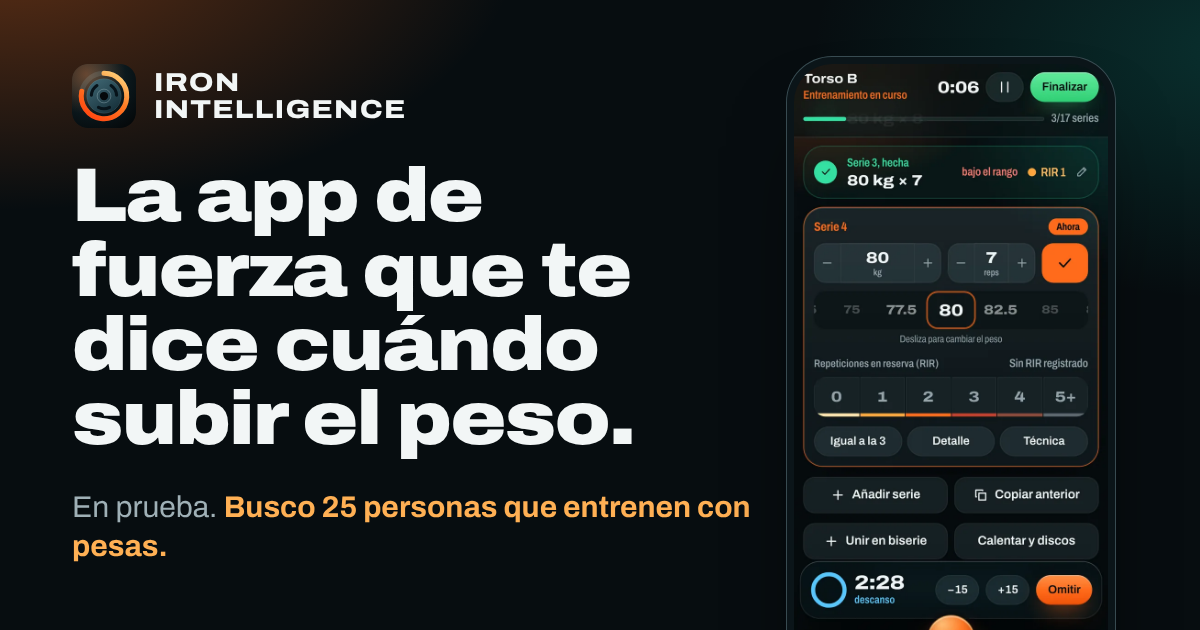
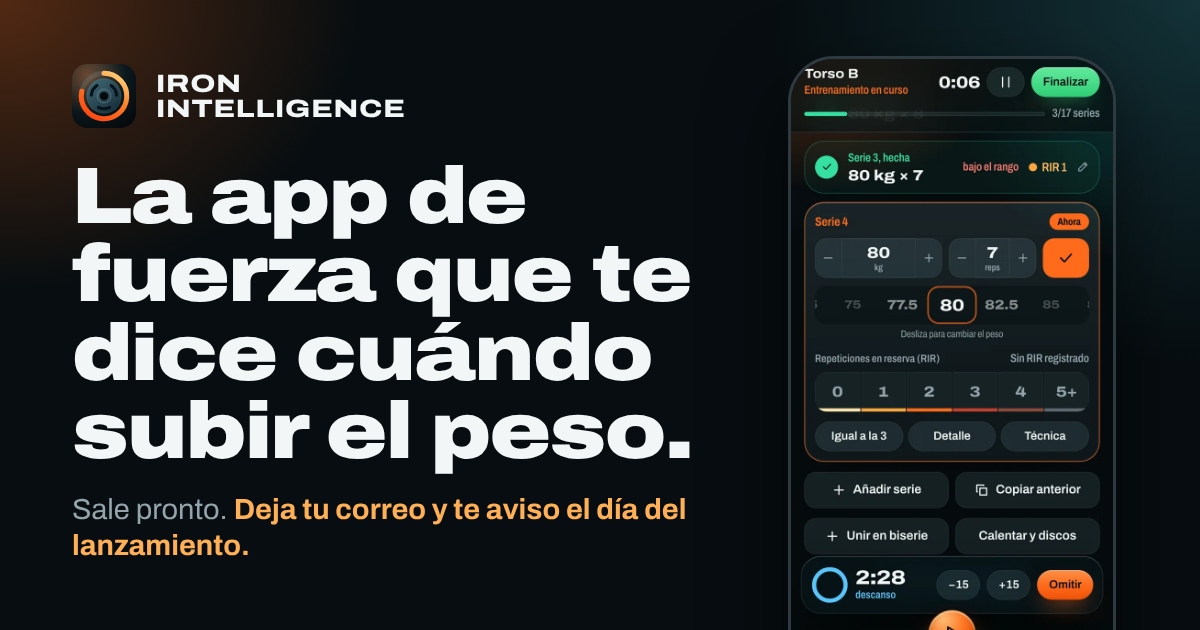
Página: aviso de lanzamiento en vez de búsqueda de testers
- Sección nueva «Te aviso el día que salga»: formulario de correo (y tipo de teléfono, opcional) que guarda en la
  lista de aviso, con confirmación y opción de quitar el correo desde la misma página.
- La búsqueda de testers queda oculta; se muestra entrando con ?testers en la dirección.
- Textos, preguntas frecuentes, pie, descripción e imagen para compartir con el nuevo enfoque.
- Base de datos: tabla launch_signups y funciones join_launch_list y leave_launch_list, sin acceso directo a la tabla
  y con tope diario por conexión.
- Política de privacidad: qué se guarda para el aviso y cómo salir de la lista.
- Enlaces a Instagram y TikTok preparados: aparecen al completar los nombres de usuario en REDES.

Claude-Session: https://claude.ai/code/session_01WESPivRb3g9ZrUTQocmSqs

diff --git a/public/web/index.html b/public/web/index.html
@@ -4,7 +4,7 @@
 <meta charset="utf-8">
 <meta name="viewport" content="width=device-width, initial-scale=1, viewport-fit=cover">
 <title>IRON INTELLIGENCE: la app de fuerza que te dice cuándo subir el peso</title>
-<meta name="description" content="Registra tus series en segundos, analiza tu progreso y entra a la próxima sesión sabiendo qué cargar. Está en prueba: se buscan 25 personas que entrenen con pesas.">
+<meta name="description" content="Registra tus series en segundos, analiza tu progreso y entra a la próxima sesión sabiendo qué cargar. Sale pronto: deja tu correo y te aviso el día del lanzamiento.">
 <meta name="theme-color" content="#070d10">
 <link rel="canonical" href="https://ironintelligence.app/">
 <link rel="icon" href="/icon.svg" type="image/svg+xml">
@@ -13,7 +13,7 @@
 <meta property="og:locale" content="es_CL">
 <meta property="og:site_name" content="IRON INTELLIGENCE">
 <meta property="og:title" content="La app de fuerza que te dice cuándo subir el peso">
-<meta property="og:description" content="Está en prueba. Se buscan 25 personas que entrenen con pesas para usarla antes del lanzamiento.">
+<meta property="og:description" content="Sale pronto. Deja tu correo y te aviso el día del lanzamiento.">
 <meta property="og:url" content="https://ironintelligence.app/">
 <meta property="og:image" content="https://ironintelligence.app/web/og.png">
 <meta property="og:image:width" content="1200">
@@ -293,6 +293,15 @@ h3 { font-stretch: 106%; font-weight: 800; font-size: 1.1875rem; line-height: 1.
 .done ol li { counter-increment: paso; display: grid; grid-template-columns: 28px minmax(0, 1fr); gap: 10px; color: var(--mute); }
 .done ol li::before { content: counter(paso); color: var(--amber); font-weight: 800; font-stretch: 118%; }
 
+/* ---------- Aviso de lanzamiento ---------- */
+.aviso-form fieldset { border: 0; padding: 0; min-width: 0; display: grid; gap: 10px; }
+.aviso-form legend { font-weight: 700; font-size: 1rem; padding: 0; margin-bottom: 10px; }
+.aviso-form .btn { width: 100%; }
+.textbtn { justify-self: start; min-height: 44px; padding: 0; border: 0; background: none; color: var(--mute); font: inherit; font-size: .9375rem; text-decoration: underline; text-underline-offset: 4px; cursor: pointer; }
+.textbtn:active { color: var(--chalk); }
+.ok { color: var(--go); font-size: .9375rem; font-weight: 600; }
+.ok:empty { display: none; }
+
 /* ---------- Preguntas ---------- */
 .faq { display: grid; gap: 44px; }
 @media (min-width: 900px) { .faq { grid-template-columns: minmax(0, 5fr) minmax(0, 7fr); gap: 72px; } }
@@ -357,8 +366,8 @@ h3 { font-stretch: 106%; font-weight: 800; font-size: 1.1875rem; line-height: 1.
       <a class="link" href="#recorrido">Recorrido</a>
       <a class="link" href="#demo">Pruébala</a>
       <a class="link" href="#funciones">Funciones</a>
-      <a class="link" href="#prueba">La prueba</a>
-      <a class="btn btn-fire btn-small" href="#inscripcion">Quiero probarla</a>
+      <a class="link" href="#prueba" data-testers hidden>La prueba</a>
+      <a class="btn btn-fire btn-small" href="#aviso" aria-label="Avísame cuando salga">Avísame</a>
     </nav>
   </div>
 </header>
@@ -369,9 +378,9 @@ h3 { font-stretch: 106%; font-weight: 800; font-size: 1.1875rem; line-height: 1.
   <div class="wrap">
     <div class="hero-copy">
       <h1 class="display">La app de fuerza que te dice cuándo subir el peso.</h1>
-      <p class="lead">Registra cada serie en segundos, mira cómo progresas y entra a la próxima sesión sabiendo qué cargar. Está en prueba y busco 25 personas que entrenen con pesas.</p>
+      <p class="lead">Registra cada serie en segundos, mira cómo progresas y entra a la próxima sesión sabiendo qué cargar. Sale pronto: deja tu correo y te aviso ese día.</p>
       <div class="actions">
-        <a class="btn btn-fire" href="#inscripcion">Quiero probarla</a>
+        <a class="btn btn-fire" href="#aviso">Avísame cuando salga</a>
         <a class="btn btn-ghost" href="#demo">Tocar la demostración</a>
       </div>
       <div class="seg" role="tablist" aria-label="Pantalla que muestra el teléfono" id="hero-tabs">
@@ -545,7 +554,48 @@ h3 { font-stretch: 106%; font-weight: 800; font-size: 1.1875rem; line-height: 1.
   </div>
 </section>
 
-<section class="section" id="prueba">
+<section class="section" id="aviso">
+  <div class="wrap join">
+    <div class="section-head rv">
+      <h2 class="display">Te aviso el día que salga.</h2>
+      <p class="lead">Deja tu correo y te escribo una sola vez: cuando la app esté lista para descargar.</p>
+      <p class="note">Uso tu correo solo para ese aviso. No lo comparto, y lo quitas de la lista cuando quieras desde esta misma página. Más detalle en la <a href="/privacidad.html">política de privacidad</a>.</p>
+      <p class="note" data-redes hidden>Mientras tanto, la app se muestra en <span></span>.</p>
+    </div>
+
+    <div class="rv">
+      <form class="form aviso-form" id="aviso-form" novalidate>
+        <div class="field">
+          <label for="a-correo">Tu correo</label>
+          <input class="input" id="a-correo" name="correo" type="email" inputmode="email" autocomplete="email" maxlength="120" placeholder="nombre@gmail.com" aria-describedby="a-e-correo">
+          <p class="error" id="a-e-correo" role="alert"></p>
+        </div>
+        <fieldset>
+          <legend>¿Qué teléfono usas? <span class="hint">(opcional)</span></legend>
+          <div class="pills">
+            <label class="pill"><input type="radio" name="telefono" value="android"><span>Android</span></label>
+            <label class="pill"><input type="radio" name="telefono" value="iphone"><span>iPhone</span></label>
+          </div>
+        </fieldset>
+        <div class="trap" aria-hidden="true"><label>No completar <input type="text" name="sitio" tabindex="-1" autocomplete="off"></label></div>
+        <p class="error" id="a-e-envio" role="alert"></p>
+        <p class="ok" id="a-ok" role="status"></p>
+        <button class="btn btn-fire" type="submit" id="a-enviar">Avísame cuando salga</button>
+        <button class="textbtn" type="button" id="a-quitar">Quitar mi correo de la lista</button>
+      </form>
+
+      <div class="form done" id="aviso-listo" hidden tabindex="-1">
+        <h3 class="display" style="font-size: 1.75rem">Listo. Te aviso cuando salga.</h3>
+        <p class="lead">Te escribiré una vez, al correo que dejaste.</p>
+        <p class="note" data-redes hidden>Mientras tanto, la app se muestra en <span></span>.</p>
+        <button class="btn btn-ghost" type="button" id="a-otro">Anotar otro correo</button>
+      </div>
+    </div>
+  </div>
+</section>
+
+<!-- Búsqueda de testers: queda oculta. Se muestra entrando con ?testers en la dirección (ironintelligence.app/?testers). -->
+<section class="section" id="prueba" data-testers hidden>
   <div class="wrap trial">
     <div class="rv">
       <div class="section-head">
@@ -569,7 +619,7 @@ h3 { font-stretch: 106%; font-weight: 800; font-size: 1.1875rem; line-height: 1.
   </div>
 </section>
 
-<section class="section" id="inscripcion">
+<section class="section" id="inscripcion" data-testers hidden>
   <div class="wrap join">
     <div class="section-head rv">
       <h2 class="display">Inscríbete en la prueba.</h2>
@@ -667,20 +717,20 @@ h3 { font-stretch: 106%; font-weight: 800; font-size: 1.1875rem; line-height: 1.
 <section class="section" id="preguntas">
   <div class="wrap faq">
     <div class="section-head rv">
-      <h2 class="display">Preguntas antes de inscribirte.</h2>
+      <h2 class="display">Preguntas frecuentes.</h2>
     </div>
     <div class="rv">
       <details class="qa">
         <summary>¿Cuánto cuesta?<svg width="22" height="22" viewBox="0 0 24 24" fill="none" stroke="currentColor" stroke-width="2.2" stroke-linecap="round" aria-hidden="true"><path d="M12 5v14"/><path d="M5 12h14"/></svg></summary>
-        <p>Probarla no cuesta nada. El precio final todavía no está definido.</p>
+        <p>Tendrá un plan gratis y un plan Pro de pago mensual. El precio se anuncia junto con el lanzamiento.</p>
       </details>
       <details class="qa">
         <summary>¿Cuándo se lanza?<svg width="22" height="22" viewBox="0 0 24 24" fill="none" stroke="currentColor" stroke-width="2.2" stroke-linecap="round" aria-hidden="true"><path d="M12 5v14"/><path d="M5 12h14"/></svg></summary>
-        <p>Todavía no hay fecha. Depende de lo que salga en la prueba.</p>
+        <p>Todavía no hay fecha. Sale primero en Google Play, para Android. Si dejas tu correo, te aviso ese día.</p>
       </details>
       <details class="qa">
         <summary>¿Funciona en iPhone?<svg width="22" height="22" viewBox="0 0 24 24" fill="none" stroke="currentColor" stroke-width="2.2" stroke-linecap="round" aria-hidden="true"><path d="M12 5v14"/><path d="M5 12h14"/></svg></summary>
-        <p>Sí. Se instala desde Safari: Compartir y luego Añadir a pantalla de inicio. Queda con su ícono, como cualquier otra app.</p>
+        <p>Sí. En iPhone se abre en Safari y se agrega a la pantalla de inicio: Compartir y luego Añadir a pantalla de inicio. Queda con su ícono, como cualquier otra app. Todavía no está en la App Store.</p>
       </details>
       <details class="qa">
         <summary>¿Necesito internet en el gimnasio?<svg width="22" height="22" viewBox="0 0 24 24" fill="none" stroke="currentColor" stroke-width="2.2" stroke-linecap="round" aria-hidden="true"><path d="M12 5v14"/><path d="M5 12h14"/></svg></summary>
@@ -691,6 +741,10 @@ h3 { font-stretch: 106%; font-weight: 800; font-size: 1.1875rem; line-height: 1.
         <p>Tus entrenamientos, lo que decidas completar de tu perfil y, si creas una cuenta, tu correo. El peso corporal, las medidas y el registro de recuperación (sueño, fatiga) son opcionales. No pide fotos tuyas.</p>
       </details>
       <details class="qa">
+        <summary>¿Para qué usas mi correo?<svg width="22" height="22" viewBox="0 0 24 24" fill="none" stroke="currentColor" stroke-width="2.2" stroke-linecap="round" aria-hidden="true"><path d="M12 5v14"/><path d="M5 12h14"/></svg></summary>
+        <p>Solo para avisarte del lanzamiento. No lo comparto ni lo uso para publicidad. Si quieres salir de la lista, escribe el mismo correo en el formulario y toca «Quitar mi correo de la lista».</p>
+      </details>
+      <details class="qa" data-testers hidden>
         <summary>¿Tengo que saber de programación para ser tester?<svg width="22" height="22" viewBox="0 0 24 24" fill="none" stroke="currentColor" stroke-width="2.2" stroke-linecap="round" aria-hidden="true"><path d="M12 5v14"/><path d="M5 12h14"/></svg></summary>
         <p>No. Basta con entrenar y contar lo que te pasó: en qué pantalla estabas y qué esperabas que ocurriera. Una captura de pantalla ayuda mucho.</p>
       </details>
@@ -709,8 +763,10 @@ h3 { font-stretch: 106%; font-weight: 800; font-size: 1.1875rem; line-height: 1.
 
 <footer class="foot">
   <div class="wrap foot-row">
-    <span>IRON INTELLIGENCE, app de entrenamiento de fuerza en prueba.</span>
+    <span>IRON INTELLIGENCE, app de entrenamiento de fuerza. Sale pronto.</span>
     <nav aria-label="Legal">
+      <a class="link" id="pie-ig" hidden rel="noopener">Instagram</a>
+      <a class="link" id="pie-tt" hidden rel="noopener">TikTok</a>
       <a class="link" href="/privacidad.html">Política de privacidad</a>
       <a class="link" href="/terminos.html">Términos de uso</a>
     </nav>
@@ -728,6 +784,11 @@ h3 { font-stretch: 106%; font-weight: 800; font-size: 1.1875rem; line-height: 1.
   var OUT = 'cubic-bezier(0.23, 1, 0.32, 1)';
   var kg = function (n) { return String(n).replace('.', ','); };
   var safe = function (fn) { try { fn(); } catch (err) { if (window.console) console.error(err); } };
+  // La búsqueda de testers está oculta. Se muestra entrando con ?testers en la dirección.
+  var TESTERS = /(^|&)testers(=|&|$)/.test(location.search.slice(1));
+  if (TESTERS) [].forEach.call(document.querySelectorAll('[data-testers]'), function (el) { el.hidden = false; });
+  // Redes de la app: nombre de usuario de cada una. Vacío = el enlace no se muestra.
+  var REDES = { instagram: '', tiktok: '' };
   var PAUSE = '<svg width="20" height="20" viewBox="0 0 24 24" fill="currentColor" aria-hidden="true"><rect x="6" y="5" width="4" height="14" rx="1.5"/><rect x="14" y="5" width="4" height="14" rx="1.5"/></svg>';
   var PLAY = '<svg width="20" height="20" viewBox="0 0 24 24" fill="currentColor" aria-hidden="true"><path d="M8 5v14l11-7z"/></svg>';
   function setMotion(on) {
@@ -1117,7 +1178,7 @@ h3 { font-stretch: 106%; font-weight: 800; font-size: 1.1875rem; line-height: 1.
   function slots(n) { slotsN = n; if (slotsSeen) paint(n); }
   if ('IntersectionObserver' in window) new IntersectionObserver(function (l, io) { if (l[0].isIntersecting) { slotsSeen = true; io.disconnect(); if (slotsN != null) paint(slotsN); } }, { threshold: 0.4 }).observe(discs);
   else slotsSeen = true;
-  rpc('tester_count').then(function (n) { if (typeof n === 'number') slots(n); }).catch(function () {});
+  if (TESTERS) rpc('tester_count').then(function (n) { if (typeof n === 'number') slots(n); }).catch(function () {});
 
   var form = $('form'), steps = [].slice.call(form.querySelectorAll('.wz-step')), step = 0, lastTap = 0;
   var MSG = {
@@ -1198,6 +1259,55 @@ h3 { font-stretch: 106%; font-weight: 800; font-size: 1.1875rem; line-height: 1.
         btn.disabled = false; btn.textContent = 'Inscribirme';
       });
   });
+  /* ---- Aviso de lanzamiento ---- */
+  var aform = $('aviso-form');
+  var correoOk = function (v) { return /^[^\s@]+@[^\s@]+\.[^\s@]{2,}$/.test(v); };
+  function avisoError(msg) { $('a-e-correo').textContent = msg; aform.elements.correo.setAttribute('aria-invalid', msg ? 'true' : 'false'); }
+  function avisoListo() { aform.hidden = true; var box = $('aviso-listo'); box.hidden = false; return box; }
+  aform.addEventListener('input', function (e) { if (e.target.name === 'correo') { avisoError(''); $('a-e-envio').textContent = ''; $('a-ok').textContent = ''; } });
+  aform.addEventListener('submit', function (e) {
+    e.preventDefault();
+    var correo = aform.elements.correo.value.trim(), tel = aform.elements.telefono.value || null, btn = $('a-enviar');
+    $('a-e-envio').textContent = ''; $('a-ok').textContent = '';
+    if (!correoOk(correo)) { avisoError('Escribe un correo válido, por ejemplo nombre@gmail.com.'); aform.elements.correo.focus(); return; }
+    if (aform.elements.sitio.value) { avisoListo(); return; } // trampa para envíos automáticos
+    btn.disabled = true; btn.textContent = 'Guardando';
+    var origen = null;
+    try { origen = new URLSearchParams(location.search).get('o'); } catch (err) {}
+    rpc('join_launch_list', { p_email: correo, p_phone_os: tel, p_lang: (navigator.language || '').slice(0, 12) || null, p_source: origen })
+      .then(function () {
+        try { localStorage.setItem('ii_aviso', '1'); } catch (err) {}
+        var box = avisoListo(); box.focus({ preventScroll: true });
+        box.scrollIntoView({ block: 'center', behavior: reduced ? 'auto' : 'smooth' });
+      }, function (err) {
+        var m = String(err && err.message || '');
+        $('a-e-envio').textContent = m.indexOf('bad_email') >= 0 ? 'Revisa el correo: no parece válido.'
+          : m.indexOf('too_many') >= 0 ? 'Hoy llegaron muchos correos desde esta conexión. Inténtalo mañana.'
+          : 'No se pudo guardar. Revisa tu conexión e inténtalo de nuevo.';
+      })
+      .then(function () { btn.disabled = false; btn.textContent = 'Avísame cuando salga'; });
+  });
+  $('a-quitar').addEventListener('click', function () {
+    var correo = aform.elements.correo.value.trim();
+    $('a-e-envio').textContent = ''; $('a-ok').textContent = '';
+    if (!correoOk(correo)) { avisoError('Escribe el correo que quieres quitar de la lista.'); aform.elements.correo.focus(); return; }
+    rpc('leave_launch_list', { p_email: correo }).then(function () {
+      try { localStorage.removeItem('ii_aviso'); } catch (err) {}
+      aform.elements.correo.value = ''; $('a-ok').textContent = 'Listo: ese correo ya no está en la lista.';
+    }, function () { $('a-e-envio').textContent = 'No se pudo quitar. Revisa tu conexión e inténtalo de nuevo.'; });
+  });
+  $('a-otro').addEventListener('click', function () { $('aviso-listo').hidden = true; aform.hidden = false; aform.elements.correo.value = ''; aform.elements.correo.focus(); });
+  try { if (localStorage.getItem('ii_aviso')) avisoListo(); } catch (err) {}
+
+  /* ---- Enlaces a redes (solo si hay nombre de usuario) ---- */
+  safe(function () {
+    var ig = REDES.instagram ? 'https://www.instagram.com/' + REDES.instagram + '/' : '', tt = REDES.tiktok ? 'https://www.tiktok.com/@' + REDES.tiktok : '';
+    if (ig) { $('pie-ig').href = ig; $('pie-ig').hidden = false; }
+    if (tt) { $('pie-tt').href = tt; $('pie-tt').hidden = false; }
+    var html = [ig ? '<a href="' + ig + '" rel="noopener">Instagram</a>' : '', tt ? '<a href="' + tt + '" rel="noopener">TikTok</a>' : ''].filter(Boolean).join(' y ');
+    if (html) [].forEach.call(document.querySelectorAll('[data-redes]'), function (el) { el.querySelector('span').innerHTML = html; el.hidden = false; });
+  });
+
   try {
     var saved = localStorage.getItem('ii_tester');
     if (saved) { form.hidden = true; $('pasos-android').hidden = saved === 'iphone'; $('pasos-iphone').hidden = saved !== 'iphone'; $('listo').hidden = false; }

diff --git a/public/privacidad.html b/public/privacidad.html
@@ -33,7 +33,7 @@ footer{margin-top:3rem;padding-top:1rem;border-top:1px solid #363b43;font-size:.
 <header><img src="./icon.svg" alt=""><a href="./">Iron Intelligence</a></header>
 
 <h1>Política de privacidad</h1>
-<p class="fecha">Vigente desde el 19 de noviembre de 2026</p>
+<p class="fecha">Vigente desde el 19 de noviembre de 2026. Última actualización: 22 de noviembre de 2026.</p>
 <p>Iron Intelligence es una app para registrar entrenamientos de fuerza y ver tu progreso. Guarda solo lo que tú escribes en ella y lo usa únicamente para mostrarte tus registros y análisis. No tiene publicidad, no vende datos y no usa herramientas de analítica ni de seguimiento de terceros.</p>
 
 <h2>Quién responde por tus datos</h2>
@@ -50,6 +50,7 @@ footer{margin-top:3rem;padding-top:1rem;border-top:1px solid #363b43;font-size:.
 <p>La app no accede a tu ubicación, contactos, cámara, micrófono ni a los datos de otras apps de salud.</p>
 
 <p>Si te inscribes como tester en la página web de la app, se guarda lo que escribes en ese formulario: nombre o apodo, correo, tipo de teléfono, cuántos días entrenas, dónde anotas tus entrenamientos y, si lo indicas, por dónde prefieres que te escriban. Esos datos se usan solo para darte acceso a la prueba y escribirte sobre ella; no se publican ni se comparten, y se borran si lo pides respondiendo a cualquier correo de la prueba.</p>
+<p>Si dejas tu correo en la página web para recibir el aviso de lanzamiento, se guarda ese correo, el tipo de teléfono si lo indicas, el idioma de tu navegador y la fecha. Se usa solo para enviarte ese aviso; no se publica ni se comparte. Para frenar envíos automáticos se guarda además una huella diaria de la dirección de red, que no permite identificarte. Puedes quitar tu correo en la misma página, con «Quitar mi correo de la lista».</p>
 <h2>Dónde se guardan</h2>
 <ul>
 <li><strong>En tu dispositivo.</strong> Todo se escribe primero en el almacenamiento de la app en tu teléfono o navegador. Si usas la app sin cuenta, los datos no salen de ahí.</li>
